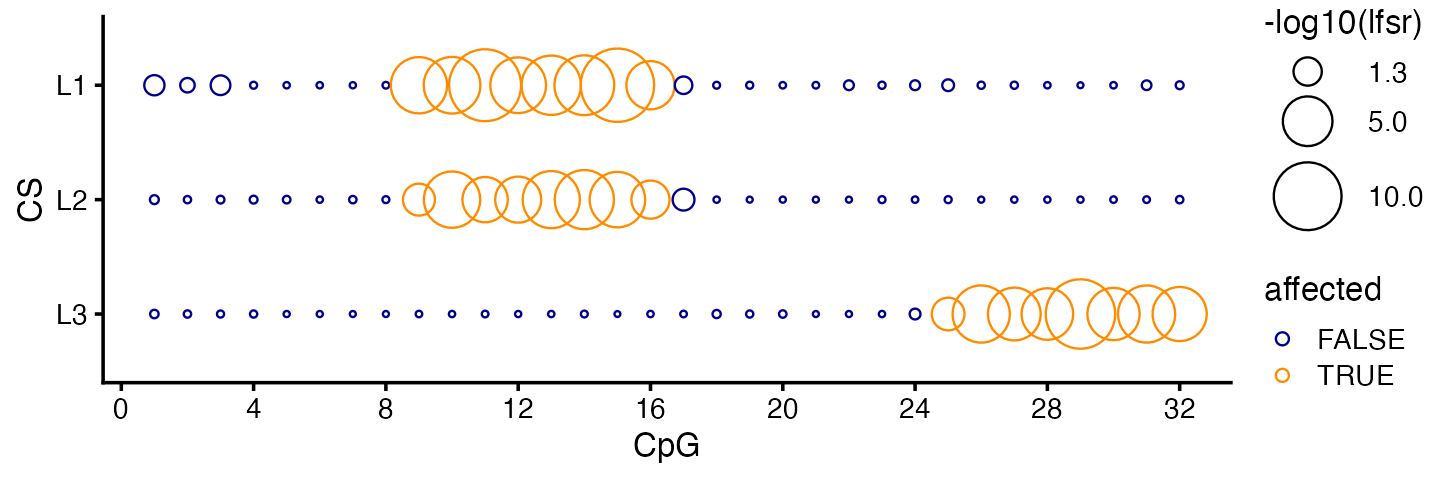
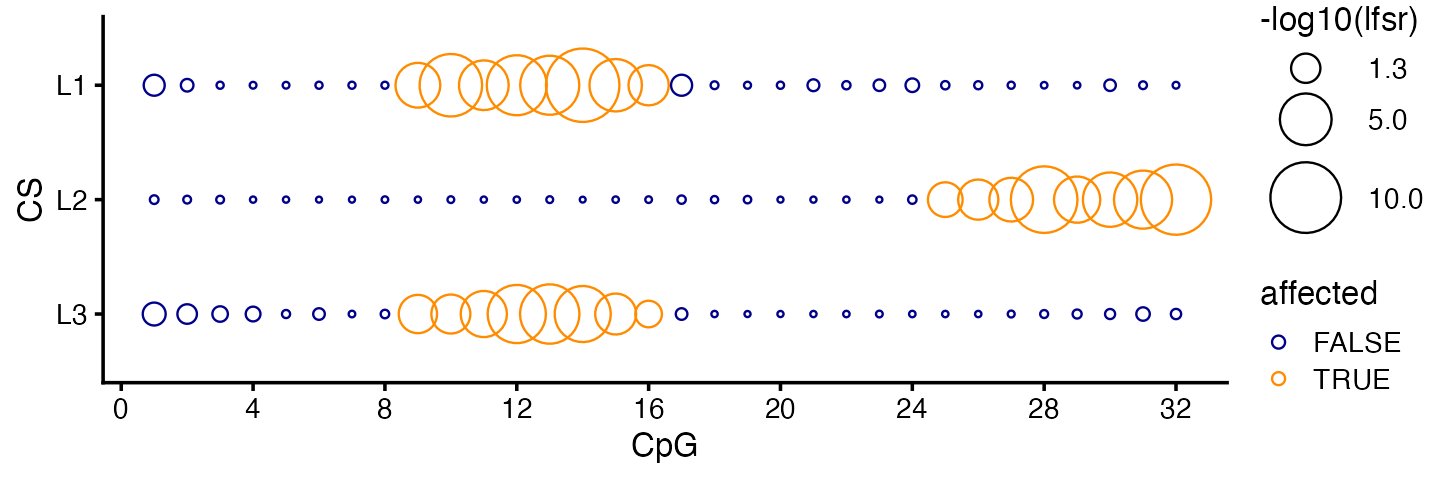
Rebuilt the small_demo2 vignette using pkgdown.

diff --git a/docs/articles/small_demo2.html b/docs/articles/small_demo2.html
@@ -33,7 +33,7 @@
       </button>
       <span class="navbar-brand">
         <a class="navbar-link" href="../index.html">fsusieR</a>
-        <span class="version label label-default" data-toggle="tooltip" data-placement="bottom" title="">0.2.84</span>
+        <span class="version label label-default" data-toggle="tooltip" data-placement="bottom" title="">0.2.85</span>
       </span>
     </div>
 
@@ -71,7 +71,7 @@ methylation data set</h1>
                         <h4 data-toc-skip class="author">William Denault
 and Peter Carbonetto</h4>
             
-            <h4 data-toc-skip class="date">2025-02-03</h4>
+            <h4 data-toc-skip class="date">2025-02-04</h4>
       
       <small class="dont-index">Source: <a href="https://github.com/stephenslab/fsusieR/blob/HEAD/vignettes/small_demo2.Rmd" class="external-link"><code>vignettes/small_demo2.Rmd</code></a></small>
       <div class="hidden name"><code>small_demo2.Rmd</code></div>
@@ -116,13 +116,14 @@ CpGs.</p>
 <span>     <span class="op">(</span><span class="fu"><a href="https://rdrr.io/r/stats/Uniform.html" class="external-link">runif</a></span><span class="op">(</span><span class="va">n</span><span class="op">*</span><span class="va">p</span><span class="op">)</span> <span class="op">&lt;</span> <span class="va">maf</span><span class="op">)</span></span>
 <span><span class="va">X</span> <span class="op">&lt;-</span> <span class="fu"><a href="https://rdrr.io/r/base/matrix.html" class="external-link">matrix</a></span><span class="op">(</span><span class="va">X</span>,<span class="va">n</span>,<span class="va">p</span>,byrow <span class="op">=</span> <span class="cn">TRUE</span><span class="op">)</span></span>
 <span><span class="fu"><a href="https://rdrr.io/r/base/mode.html" class="external-link">storage.mode</a></span><span class="op">(</span><span class="va">X</span><span class="op">)</span> <span class="op">&lt;-</span> <span class="st">"double"</span></span>
+<span><span class="va">X</span><span class="op">[</span>,<span class="fl">4</span><span class="op">]</span> <span class="op">&lt;-</span> <span class="va">X</span><span class="op">[</span>,<span class="fl">3</span><span class="op">]</span> <span class="op">+</span> <span class="fl">0.03</span><span class="op">*</span><span class="fu"><a href="https://rdrr.io/r/stats/Normal.html" class="external-link">rnorm</a></span><span class="op">(</span><span class="va">n</span><span class="op">)</span></span>
 <span><span class="fu"><a href="https://rdrr.io/r/base/colnames.html" class="external-link">colnames</a></span><span class="op">(</span><span class="va">X</span><span class="op">)</span> <span class="op">&lt;-</span> <span class="va">snpids</span></span></code></pre></div>
 <p>This is the matrix that determines how the SNP alleles change the
 methylation levels.</p>
 <div class="sourceCode" id="cb7"><pre class="downlit sourceCode r">
 <code class="sourceCode R"><span><span class="cn">F</span> <span class="op">&lt;-</span> <span class="fu"><a href="https://rdrr.io/r/base/matrix.html" class="external-link">matrix</a></span><span class="op">(</span><span class="fl">0</span>,<span class="va">p</span>,<span class="va">m</span><span class="op">)</span></span>
-<span><span class="cn">F</span><span class="op">[</span><span class="fl">1</span>,<span class="fl">9</span><span class="op">:</span><span class="fl">16</span><span class="op">]</span> <span class="op">&lt;-</span> <span class="fl">2.5</span></span>
-<span><span class="cn">F</span><span class="op">[</span><span class="fl">9</span>,<span class="fl">9</span><span class="op">:</span><span class="fl">16</span><span class="op">]</span> <span class="op">&lt;-</span> <span class="op">(</span><span class="op">-</span><span class="fl">2.5</span><span class="op">)</span></span>
+<span><span class="cn">F</span><span class="op">[</span><span class="fl">1</span>,<span class="fl">9</span><span class="op">:</span><span class="fl">16</span><span class="op">]</span> <span class="op">&lt;-</span> <span class="fl">2.3</span></span>
+<span><span class="cn">F</span><span class="op">[</span><span class="fl">9</span>,<span class="fl">9</span><span class="op">:</span><span class="fl">16</span><span class="op">]</span> <span class="op">&lt;-</span> <span class="op">(</span><span class="op">-</span><span class="fl">2.3</span><span class="op">)</span></span>
 <span><span class="cn">F</span><span class="op">[</span><span class="fl">3</span>,<span class="fl">25</span><span class="op">:</span><span class="fl">32</span><span class="op">]</span> <span class="op">&lt;-</span> <span class="fl">2</span></span>
 <span><span class="fu"><a href="https://rdrr.io/r/base/colnames.html" class="external-link">rownames</a></span><span class="op">(</span><span class="cn">F</span><span class="op">)</span> <span class="op">&lt;-</span> <span class="va">snpids</span></span>
 <span><span class="fu"><a href="https://rdrr.io/r/base/colnames.html" class="external-link">colnames</a></span><span class="op">(</span><span class="cn">F</span><span class="op">)</span> <span class="op">&lt;-</span> <span class="va">cpgids</span></span></code></pre></div>
@@ -162,15 +163,16 @@ with the SNP-centered view:</p>
 <span>                   pval   <span class="op">=</span> <span class="fu"><a href="https://rdrr.io/r/base/vector.html" class="external-link">as.vector</a></span><span class="op">(</span><span class="va">assoc</span><span class="op">)</span><span class="op">)</span></span>
 <span><span class="va">pdat</span> <span class="op">&lt;-</span> <span class="fu"><a href="https://rdrr.io/r/base/transform.html" class="external-link">transform</a></span><span class="op">(</span><span class="va">pdat</span>,pval <span class="op">=</span> <span class="op">-</span><span class="fu"><a href="https://rdrr.io/r/base/Log.html" class="external-link">log10</a></span><span class="op">(</span><span class="va">pval</span><span class="op">)</span><span class="op">)</span></span>
 <span><span class="va">threshold</span> <span class="op">&lt;-</span> <span class="op">-</span><span class="fu"><a href="https://rdrr.io/r/base/Log.html" class="external-link">log10</a></span><span class="op">(</span><span class="fl">0.05</span><span class="op">/</span><span class="op">(</span><span class="va">m</span><span class="op">*</span><span class="va">p</span><span class="op">)</span><span class="op">)</span></span>
-<span><span class="fu"><a href="https://ggplot2.tidyverse.org/reference/ggplot.html" class="external-link">ggplot</a></span><span class="op">(</span><span class="va">pdat</span>,<span class="fu"><a href="https://ggplot2.tidyverse.org/reference/aes.html" class="external-link">aes</a></span><span class="op">(</span>x <span class="op">=</span> <span class="va">snp</span>,y <span class="op">=</span> <span class="va">pval</span>,shape <span class="op">=</span> <span class="va">effect</span>,color <span class="op">=</span> <span class="va">effect</span><span class="op">)</span><span class="op">)</span> <span class="op">+</span></span>
+<span><span class="va">p1</span> <span class="op">&lt;-</span> <span class="fu"><a href="https://ggplot2.tidyverse.org/reference/ggplot.html" class="external-link">ggplot</a></span><span class="op">(</span><span class="va">pdat</span>,<span class="fu"><a href="https://ggplot2.tidyverse.org/reference/aes.html" class="external-link">aes</a></span><span class="op">(</span>x <span class="op">=</span> <span class="va">snp</span>,y <span class="op">=</span> <span class="va">pval</span>,shape <span class="op">=</span> <span class="va">effect</span>,color <span class="op">=</span> <span class="va">effect</span><span class="op">)</span><span class="op">)</span> <span class="op">+</span></span>
 <span>  <span class="fu"><a href="https://ggplot2.tidyverse.org/reference/geom_point.html" class="external-link">geom_point</a></span><span class="op">(</span>size <span class="op">=</span> <span class="fl">1.5</span><span class="op">)</span> <span class="op">+</span></span>
 <span>  <span class="fu"><a href="https://ggplot2.tidyverse.org/reference/geom_abline.html" class="external-link">geom_hline</a></span><span class="op">(</span>yintercept <span class="op">=</span> <span class="va">threshold</span>,color <span class="op">=</span> <span class="st">"black"</span>,linetype <span class="op">=</span> <span class="st">"dotted"</span><span class="op">)</span> <span class="op">+</span></span>
 <span>  <span class="fu"><a href="https://ggplot2.tidyverse.org/reference/scale_continuous.html" class="external-link">scale_x_continuous</a></span><span class="op">(</span>breaks <span class="op">=</span> <span class="fl">1</span><span class="op">:</span><span class="va">p</span><span class="op">)</span> <span class="op">+</span></span>
 <span>  <span class="fu"><a href="https://ggplot2.tidyverse.org/reference/scale_manual.html" class="external-link">scale_shape_manual</a></span><span class="op">(</span>values <span class="op">=</span> <span class="fu"><a href="https://rdrr.io/r/base/c.html" class="external-link">c</a></span><span class="op">(</span><span class="fl">1</span>,<span class="fl">4</span><span class="op">)</span><span class="op">)</span> <span class="op">+</span></span>
 <span>  <span class="fu"><a href="https://ggplot2.tidyverse.org/reference/scale_manual.html" class="external-link">scale_color_manual</a></span><span class="op">(</span>values <span class="op">=</span> <span class="fu"><a href="https://rdrr.io/r/base/c.html" class="external-link">c</a></span><span class="op">(</span><span class="st">"darkblue"</span>,<span class="st">"darkorange"</span><span class="op">)</span><span class="op">)</span> <span class="op">+</span></span>
 <span>  <span class="fu"><a href="https://ggplot2.tidyverse.org/reference/labs.html" class="external-link">labs</a></span><span class="op">(</span>x <span class="op">=</span> <span class="st">"SNP"</span>,y <span class="op">=</span> <span class="st">"-log10 p-value"</span><span class="op">)</span> <span class="op">+</span></span>
-<span>  <span class="fu"><a href="https://wilkelab.org/cowplot/reference/theme_cowplot.html" class="external-link">theme_cowplot</a></span><span class="op">(</span>font_size <span class="op">=</span> <span class="fl">11</span><span class="op">)</span></span></code></pre></div>
-<p><img src="small_demo2_files/figure-html/unnamed-chunk-1-1.png" width="360" style="display: block; margin: auto;"></p>
+<span>  <span class="fu"><a href="https://wilkelab.org/cowplot/reference/theme_cowplot.html" class="external-link">theme_cowplot</a></span><span class="op">(</span>font_size <span class="op">=</span> <span class="fl">11</span><span class="op">)</span></span>
+<span><span class="fu"><a href="https://rdrr.io/r/base/print.html" class="external-link">print</a></span><span class="op">(</span><span class="va">p1</span><span class="op">)</span></span></code></pre></div>
+<p><img src="small_demo2_files/figure-html/gwas-by-snp-1.png" width="360" style="display: block; margin: auto;"></p>
 <p>Based on these simple association tests, we would identify two out of
 the three causal SNPs. (And perhaps we would identify all three causal
 SNPs if we were a bit more careful about multiple testing
@@ -181,15 +183,16 @@ significant.)</p>
 CPGs are affected by the SNPs.</p>
 <p>This is the CpG-centered view:</p>
 <div class="sourceCode" id="cb11"><pre class="downlit sourceCode r">
-<code class="sourceCode R"><span><span class="fu"><a href="https://ggplot2.tidyverse.org/reference/ggplot.html" class="external-link">ggplot</a></span><span class="op">(</span><span class="va">pdat</span>,<span class="fu"><a href="https://ggplot2.tidyverse.org/reference/aes.html" class="external-link">aes</a></span><span class="op">(</span>x <span class="op">=</span> <span class="va">cpg</span>,y <span class="op">=</span> <span class="va">pval</span>,shape <span class="op">=</span> <span class="va">effect</span>,color <span class="op">=</span> <span class="va">effect</span><span class="op">)</span><span class="op">)</span> <span class="op">+</span></span>
+<code class="sourceCode R"><span><span class="va">p2</span> <span class="op">&lt;-</span> <span class="fu"><a href="https://ggplot2.tidyverse.org/reference/ggplot.html" class="external-link">ggplot</a></span><span class="op">(</span><span class="va">pdat</span>,<span class="fu"><a href="https://ggplot2.tidyverse.org/reference/aes.html" class="external-link">aes</a></span><span class="op">(</span>x <span class="op">=</span> <span class="va">cpg</span>,y <span class="op">=</span> <span class="va">pval</span>,shape <span class="op">=</span> <span class="va">effect</span>,color <span class="op">=</span> <span class="va">effect</span><span class="op">)</span><span class="op">)</span> <span class="op">+</span></span>
 <span>  <span class="fu"><a href="https://ggplot2.tidyverse.org/reference/geom_point.html" class="external-link">geom_point</a></span><span class="op">(</span>size <span class="op">=</span> <span class="fl">1.5</span><span class="op">)</span> <span class="op">+</span></span>
 <span>  <span class="fu"><a href="https://ggplot2.tidyverse.org/reference/geom_abline.html" class="external-link">geom_hline</a></span><span class="op">(</span>yintercept <span class="op">=</span> <span class="va">threshold</span>,linetype <span class="op">=</span> <span class="st">"dotted"</span><span class="op">)</span> <span class="op">+</span></span>
 <span>  <span class="fu"><a href="https://ggplot2.tidyverse.org/reference/scale_continuous.html" class="external-link">scale_x_continuous</a></span><span class="op">(</span>breaks <span class="op">=</span> <span class="fu"><a href="https://rdrr.io/r/base/c.html" class="external-link">c</a></span><span class="op">(</span><span class="fl">0</span>,<span class="fu"><a href="https://rdrr.io/r/base/seq.html" class="external-link">seq</a></span><span class="op">(</span><span class="fl">4</span>,<span class="fl">32</span>,<span class="fl">4</span><span class="op">)</span><span class="op">)</span><span class="op">)</span> <span class="op">+</span></span>
 <span>  <span class="fu"><a href="https://ggplot2.tidyverse.org/reference/scale_manual.html" class="external-link">scale_shape_manual</a></span><span class="op">(</span>values <span class="op">=</span> <span class="fu"><a href="https://rdrr.io/r/base/c.html" class="external-link">c</a></span><span class="op">(</span><span class="fl">1</span>,<span class="fl">4</span><span class="op">)</span><span class="op">)</span> <span class="op">+</span></span>
 <span>  <span class="fu"><a href="https://ggplot2.tidyverse.org/reference/scale_manual.html" class="external-link">scale_color_manual</a></span><span class="op">(</span>values <span class="op">=</span> <span class="fu"><a href="https://rdrr.io/r/base/c.html" class="external-link">c</a></span><span class="op">(</span><span class="st">"darkblue"</span>,<span class="st">"darkorange"</span><span class="op">)</span><span class="op">)</span> <span class="op">+</span></span>
 <span>  <span class="fu"><a href="https://ggplot2.tidyverse.org/reference/labs.html" class="external-link">labs</a></span><span class="op">(</span>x <span class="op">=</span> <span class="st">"CpG"</span>,y <span class="op">=</span> <span class="st">"-log10 p-value"</span><span class="op">)</span> <span class="op">+</span></span>
-<span>  <span class="fu"><a href="https://wilkelab.org/cowplot/reference/theme_cowplot.html" class="external-link">theme_cowplot</a></span><span class="op">(</span>font_size <span class="op">=</span> <span class="fl">11</span><span class="op">)</span></span></code></pre></div>
-<p><img src="small_demo2_files/figure-html/unnamed-chunk-2-1.png" width="420" style="display: block; margin: auto;"></p>
+<span>  <span class="fu"><a href="https://wilkelab.org/cowplot/reference/theme_cowplot.html" class="external-link">theme_cowplot</a></span><span class="op">(</span>font_size <span class="op">=</span> <span class="fl">11</span><span class="op">)</span></span>
+<span><span class="fu"><a href="https://rdrr.io/r/base/print.html" class="external-link">print</a></span><span class="op">(</span><span class="va">p2</span><span class="op">)</span></span></code></pre></div>
+<p><img src="small_demo2_files/figure-html/gwas-by-cpg-1.png" width="420" style="display: block; margin: auto;"></p>
 <p>From the association test p-values alone it is quite clear that the
 affected CpG sites “cluster” in two continuous regions, but it is less
 clear exactly which CpG sites in these clusters are affected.</p>
@@ -218,12 +221,12 @@ containing one of the causal SNPs:</p>
 <span><span class="co">#     9 </span></span>
 <span><span class="co"># </span></span>
 <span><span class="co"># [[2]]</span></span>
-<span><span class="co"># SNP-1 </span></span>
-<span><span class="co">#     1 </span></span>
+<span><span class="co"># SNP-3 SNP-4 </span></span>
+<span><span class="co">#     3     4 </span></span>
 <span><span class="co"># </span></span>
 <span><span class="co"># [[3]]</span></span>
-<span><span class="co"># SNP-3 </span></span>
-<span><span class="co">#     3</span></span></code></pre></div>
+<span><span class="co"># SNP-1 </span></span>
+<span><span class="co">#     1</span></span></code></pre></div>
 <p>This result can be visualized using a “PIP plot” (PIP = posterior
 inclusion probability):</p>
 <div class="sourceCode" id="cb14"><pre class="downlit sourceCode r">
@@ -234,11 +237,12 @@ inclusion probability):</p>
 <span><span class="va">pdat</span><span class="op">$</span><span class="va">CS</span><span class="op">[</span><span class="va">fit</span><span class="op">$</span><span class="va">cs</span><span class="op">[[</span><span class="fl">2</span><span class="op">]</span><span class="op">]</span><span class="op">]</span> <span class="op">&lt;-</span> <span class="st">"L2"</span></span>
 <span><span class="va">pdat</span><span class="op">$</span><span class="va">CS</span><span class="op">[</span><span class="va">fit</span><span class="op">$</span><span class="va">cs</span><span class="op">[[</span><span class="fl">3</span><span class="op">]</span><span class="op">]</span><span class="op">]</span> <span class="op">&lt;-</span> <span class="st">"L3"</span></span>
 <span><span class="va">pdat</span> <span class="op">&lt;-</span> <span class="fu"><a href="https://rdrr.io/r/base/transform.html" class="external-link">transform</a></span><span class="op">(</span><span class="va">pdat</span>,CS <span class="op">=</span> <span class="fu"><a href="https://rdrr.io/r/base/factor.html" class="external-link">factor</a></span><span class="op">(</span><span class="va">CS</span><span class="op">)</span><span class="op">)</span></span>
-<span><span class="fu"><a href="https://ggplot2.tidyverse.org/reference/ggplot.html" class="external-link">ggplot</a></span><span class="op">(</span><span class="va">pdat</span>,<span class="fu"><a href="https://ggplot2.tidyverse.org/reference/aes.html" class="external-link">aes</a></span><span class="op">(</span>x <span class="op">=</span> <span class="va">SNP</span>,y <span class="op">=</span> <span class="va">PIP</span>,fill <span class="op">=</span> <span class="va">CS</span><span class="op">)</span><span class="op">)</span> <span class="op">+</span></span>
+<span><span class="va">p3</span> <span class="op">&lt;-</span> <span class="fu"><a href="https://ggplot2.tidyverse.org/reference/ggplot.html" class="external-link">ggplot</a></span><span class="op">(</span><span class="va">pdat</span>,<span class="fu"><a href="https://ggplot2.tidyverse.org/reference/aes.html" class="external-link">aes</a></span><span class="op">(</span>x <span class="op">=</span> <span class="va">SNP</span>,y <span class="op">=</span> <span class="va">PIP</span>,fill <span class="op">=</span> <span class="va">CS</span><span class="op">)</span><span class="op">)</span> <span class="op">+</span></span>
 <span>  <span class="fu"><a href="https://ggplot2.tidyverse.org/reference/geom_point.html" class="external-link">geom_point</a></span><span class="op">(</span>shape <span class="op">=</span> <span class="fl">21</span>,size <span class="op">=</span> <span class="fl">2</span>,color <span class="op">=</span> <span class="st">"white"</span><span class="op">)</span> <span class="op">+</span></span>
 <span>  <span class="fu"><a href="https://ggplot2.tidyverse.org/reference/scale_continuous.html" class="external-link">scale_x_continuous</a></span><span class="op">(</span>breaks <span class="op">=</span> <span class="fl">1</span><span class="op">:</span><span class="va">p</span><span class="op">)</span> <span class="op">+</span></span>
 <span>  <span class="fu"><a href="https://ggplot2.tidyverse.org/reference/scale_manual.html" class="external-link">scale_fill_manual</a></span><span class="op">(</span>values <span class="op">=</span> <span class="fu"><a href="https://rdrr.io/r/base/c.html" class="external-link">c</a></span><span class="op">(</span><span class="st">"dodgerblue"</span>,<span class="st">"darkorange"</span>,<span class="st">"red"</span>,<span class="st">"gray"</span><span class="op">)</span><span class="op">)</span> <span class="op">+</span></span>
-<span>  <span class="fu"><a href="https://wilkelab.org/cowplot/reference/theme_cowplot.html" class="external-link">theme_cowplot</a></span><span class="op">(</span>font_size <span class="op">=</span> <span class="fl">10</span><span class="op">)</span></span></code></pre></div>
+<span>  <span class="fu"><a href="https://wilkelab.org/cowplot/reference/theme_cowplot.html" class="external-link">theme_cowplot</a></span><span class="op">(</span>font_size <span class="op">=</span> <span class="fl">10</span><span class="op">)</span></span>
+<span><span class="fu"><a href="https://rdrr.io/r/base/print.html" class="external-link">print</a></span><span class="op">(</span><span class="va">p3</span><span class="op">)</span></span></code></pre></div>
 <p><img src="small_demo2_files/figure-html/fsusie-pip-plot-1.png" width="360" style="display: block; margin: auto;"></p>
 <p>Again, fSuSiE very confidently identified the correct three causal
 SNPs, whereas this was not the case in the QTL mapping. The key
@@ -247,21 +251,23 @@ difference is that fSuSiE fits a single model to all the data.</p>
 and how they are affected by the individual causal SNPs (or, more
 precisely, by the individual CSs):</p>
 <div class="sourceCode" id="cb15"><pre class="downlit sourceCode r">
-<code class="sourceCode R"><span><span class="va">pdat</span> <span class="op">&lt;-</span> <span class="fu"><a href="https://rdrr.io/r/base/data.frame.html" class="external-link">data.frame</a></span><span class="op">(</span>CS   <span class="op">=</span> <span class="fu"><a href="https://rdrr.io/r/base/rep.html" class="external-link">rep</a></span><span class="op">(</span><span class="fu"><a href="https://rdrr.io/r/base/c.html" class="external-link">c</a></span><span class="op">(</span><span class="st">"L1"</span>,<span class="st">"L2"</span>,<span class="st">"L3"</span><span class="op">)</span>,each <span class="op">=</span> <span class="va">m</span><span class="op">)</span>,</span>
+<code class="sourceCode R"><span><span class="va">i</span> <span class="op">&lt;-</span> <span class="fu"><a href="https://rdrr.io/r/base/lapply.html" class="external-link">sapply</a></span><span class="op">(</span><span class="va">fit</span><span class="op">$</span><span class="va">cs</span>,<span class="kw">function</span> <span class="op">(</span><span class="va">x</span><span class="op">)</span> <span class="fu"><a href="https://rdrr.io/r/base/sets.html" class="external-link">intersect</a></span><span class="op">(</span><span class="va">x</span>,<span class="fu"><a href="https://rdrr.io/r/base/c.html" class="external-link">c</a></span><span class="op">(</span><span class="fl">1</span>,<span class="fl">3</span>,<span class="fl">9</span><span class="op">)</span><span class="op">)</span><span class="op">)</span></span>
+<span><span class="va">pdat</span> <span class="op">&lt;-</span> <span class="fu"><a href="https://rdrr.io/r/base/data.frame.html" class="external-link">data.frame</a></span><span class="op">(</span>CS   <span class="op">=</span> <span class="fu"><a href="https://rdrr.io/r/base/rep.html" class="external-link">rep</a></span><span class="op">(</span><span class="fu"><a href="https://rdrr.io/r/base/c.html" class="external-link">c</a></span><span class="op">(</span><span class="st">"L1"</span>,<span class="st">"L2"</span>,<span class="st">"L3"</span><span class="op">)</span>,each <span class="op">=</span> <span class="va">m</span><span class="op">)</span>,</span>
 <span>                   CpG  <span class="op">=</span> <span class="fu"><a href="https://rdrr.io/r/base/rep.html" class="external-link">rep</a></span><span class="op">(</span><span class="fl">1</span><span class="op">:</span><span class="va">m</span>,times <span class="op">=</span> <span class="fl">3</span><span class="op">)</span>,</span>
 <span>                   lfsr <span class="op">=</span> <span class="fu"><a href="https://rdrr.io/r/base/unlist.html" class="external-link">unlist</a></span><span class="op">(</span><span class="va">fit</span><span class="op">$</span><span class="va">lfsr_func</span><span class="op">)</span>,</span>
-<span>                   affected <span class="op">=</span> <span class="fu"><a href="https://rdrr.io/r/base/vector.html" class="external-link">as.vector</a></span><span class="op">(</span><span class="fu"><a href="https://rdrr.io/r/base/t.html" class="external-link">t</a></span><span class="op">(</span><span class="cn">F</span><span class="op">[</span><span class="fu"><a href="https://rdrr.io/r/base/unlist.html" class="external-link">unlist</a></span><span class="op">(</span><span class="va">fit</span><span class="op">$</span><span class="va">cs</span><span class="op">)</span>,<span class="op">]</span><span class="op">)</span> <span class="op">!=</span> <span class="fl">0</span><span class="op">)</span>,</span>
+<span>                   affected <span class="op">=</span> <span class="fu"><a href="https://rdrr.io/r/base/vector.html" class="external-link">as.vector</a></span><span class="op">(</span><span class="fu"><a href="https://rdrr.io/r/base/t.html" class="external-link">t</a></span><span class="op">(</span><span class="cn">F</span><span class="op">[</span><span class="va">i</span>,<span class="op">]</span><span class="op">)</span> <span class="op">!=</span> <span class="fl">0</span><span class="op">)</span>,</span>
 <span>                   stringsAsFactors <span class="op">=</span> <span class="cn">FALSE</span><span class="op">)</span></span>
 <span><span class="va">pdat</span> <span class="op">&lt;-</span> <span class="fu"><a href="https://rdrr.io/r/base/transform.html" class="external-link">transform</a></span><span class="op">(</span><span class="va">pdat</span>,</span>
 <span>                  CS   <span class="op">=</span> <span class="fu"><a href="https://rdrr.io/r/base/factor.html" class="external-link">factor</a></span><span class="op">(</span><span class="va">CS</span>,<span class="fu"><a href="https://rdrr.io/r/base/c.html" class="external-link">c</a></span><span class="op">(</span><span class="st">"L3"</span>,<span class="st">"L2"</span>,<span class="st">"L1"</span><span class="op">)</span><span class="op">)</span>,</span>
 <span>                  lfsr <span class="op">=</span> <span class="op">-</span><span class="fu"><a href="https://rdrr.io/r/base/Log.html" class="external-link">log10</a></span><span class="op">(</span><span class="va">lfsr</span><span class="op">)</span><span class="op">)</span></span>
-<span><span class="fu"><a href="https://ggplot2.tidyverse.org/reference/ggplot.html" class="external-link">ggplot</a></span><span class="op">(</span><span class="va">pdat</span>,<span class="fu"><a href="https://ggplot2.tidyverse.org/reference/aes.html" class="external-link">aes</a></span><span class="op">(</span>x <span class="op">=</span> <span class="va">CpG</span>,y <span class="op">=</span> <span class="va">CS</span>,size <span class="op">=</span> <span class="va">lfsr</span>,color <span class="op">=</span> <span class="va">affected</span><span class="op">)</span><span class="op">)</span> <span class="op">+</span></span>
+<span><span class="va">p4</span> <span class="op">&lt;-</span> <span class="fu"><a href="https://ggplot2.tidyverse.org/reference/ggplot.html" class="external-link">ggplot</a></span><span class="op">(</span><span class="va">pdat</span>,<span class="fu"><a href="https://ggplot2.tidyverse.org/reference/aes.html" class="external-link">aes</a></span><span class="op">(</span>x <span class="op">=</span> <span class="va">CpG</span>,y <span class="op">=</span> <span class="va">CS</span>,size <span class="op">=</span> <span class="va">lfsr</span>,color <span class="op">=</span> <span class="va">affected</span><span class="op">)</span><span class="op">)</span> <span class="op">+</span></span>
 <span>  <span class="fu"><a href="https://ggplot2.tidyverse.org/reference/geom_point.html" class="external-link">geom_point</a></span><span class="op">(</span>shape <span class="op">=</span> <span class="fl">1</span><span class="op">)</span> <span class="op">+</span></span>
 <span>  <span class="fu"><a href="https://ggplot2.tidyverse.org/reference/scale_continuous.html" class="external-link">scale_x_continuous</a></span><span class="op">(</span>breaks <span class="op">=</span> <span class="fu"><a href="https://rdrr.io/r/base/c.html" class="external-link">c</a></span><span class="op">(</span><span class="fl">0</span>,<span class="fu"><a href="https://rdrr.io/r/base/seq.html" class="external-link">seq</a></span><span class="op">(</span><span class="fl">4</span>,<span class="fl">32</span>,<span class="fl">4</span><span class="op">)</span><span class="op">)</span><span class="op">)</span> <span class="op">+</span></span>
 <span>  <span class="fu"><a href="https://ggplot2.tidyverse.org/reference/scale_manual.html" class="external-link">scale_color_manual</a></span><span class="op">(</span>values <span class="op">=</span> <span class="fu"><a href="https://rdrr.io/r/base/c.html" class="external-link">c</a></span><span class="op">(</span><span class="st">"darkblue"</span>,<span class="st">"darkorange"</span><span class="op">)</span><span class="op">)</span> <span class="op">+</span></span>
 <span>  <span class="fu"><a href="https://ggplot2.tidyverse.org/reference/scale_size.html" class="external-link">scale_size</a></span><span class="op">(</span>range <span class="op">=</span> <span class="fu"><a href="https://rdrr.io/r/base/c.html" class="external-link">c</a></span><span class="op">(</span><span class="fl">0.5</span>,<span class="fl">10</span><span class="op">)</span>,breaks <span class="op">=</span> <span class="fu"><a href="https://rdrr.io/r/base/c.html" class="external-link">c</a></span><span class="op">(</span><span class="fl">1.3</span>,<span class="fl">5</span>,<span class="fl">10</span><span class="op">)</span><span class="op">)</span> <span class="op">+</span></span>
 <span>  <span class="fu"><a href="https://ggplot2.tidyverse.org/reference/labs.html" class="external-link">labs</a></span><span class="op">(</span>size <span class="op">=</span> <span class="st">"-log10(lfsr)"</span><span class="op">)</span> <span class="op">+</span></span>
-<span>  <span class="fu"><a href="https://wilkelab.org/cowplot/reference/theme_cowplot.html" class="external-link">theme_cowplot</a></span><span class="op">(</span>font_size <span class="op">=</span> <span class="fl">10</span><span class="op">)</span></span></code></pre></div>
+<span>  <span class="fu"><a href="https://wilkelab.org/cowplot/reference/theme_cowplot.html" class="external-link">theme_cowplot</a></span><span class="op">(</span>font_size <span class="op">=</span> <span class="fl">10</span><span class="op">)</span></span>
+<span><span class="fu"><a href="https://rdrr.io/r/base/print.html" class="external-link">print</a></span><span class="op">(</span><span class="va">p4</span><span class="op">)</span></span></code></pre></div>
 <p><img src="small_demo2_files/figure-html/fsusie-affected-cpgs-1.png" width="720" style="display: block; margin: auto;"></p>
 <p>Indeed, the significance tests (local false sign rate) break down the
 support for affected CpGs <em>separately for each CS</em> (i.e., for
